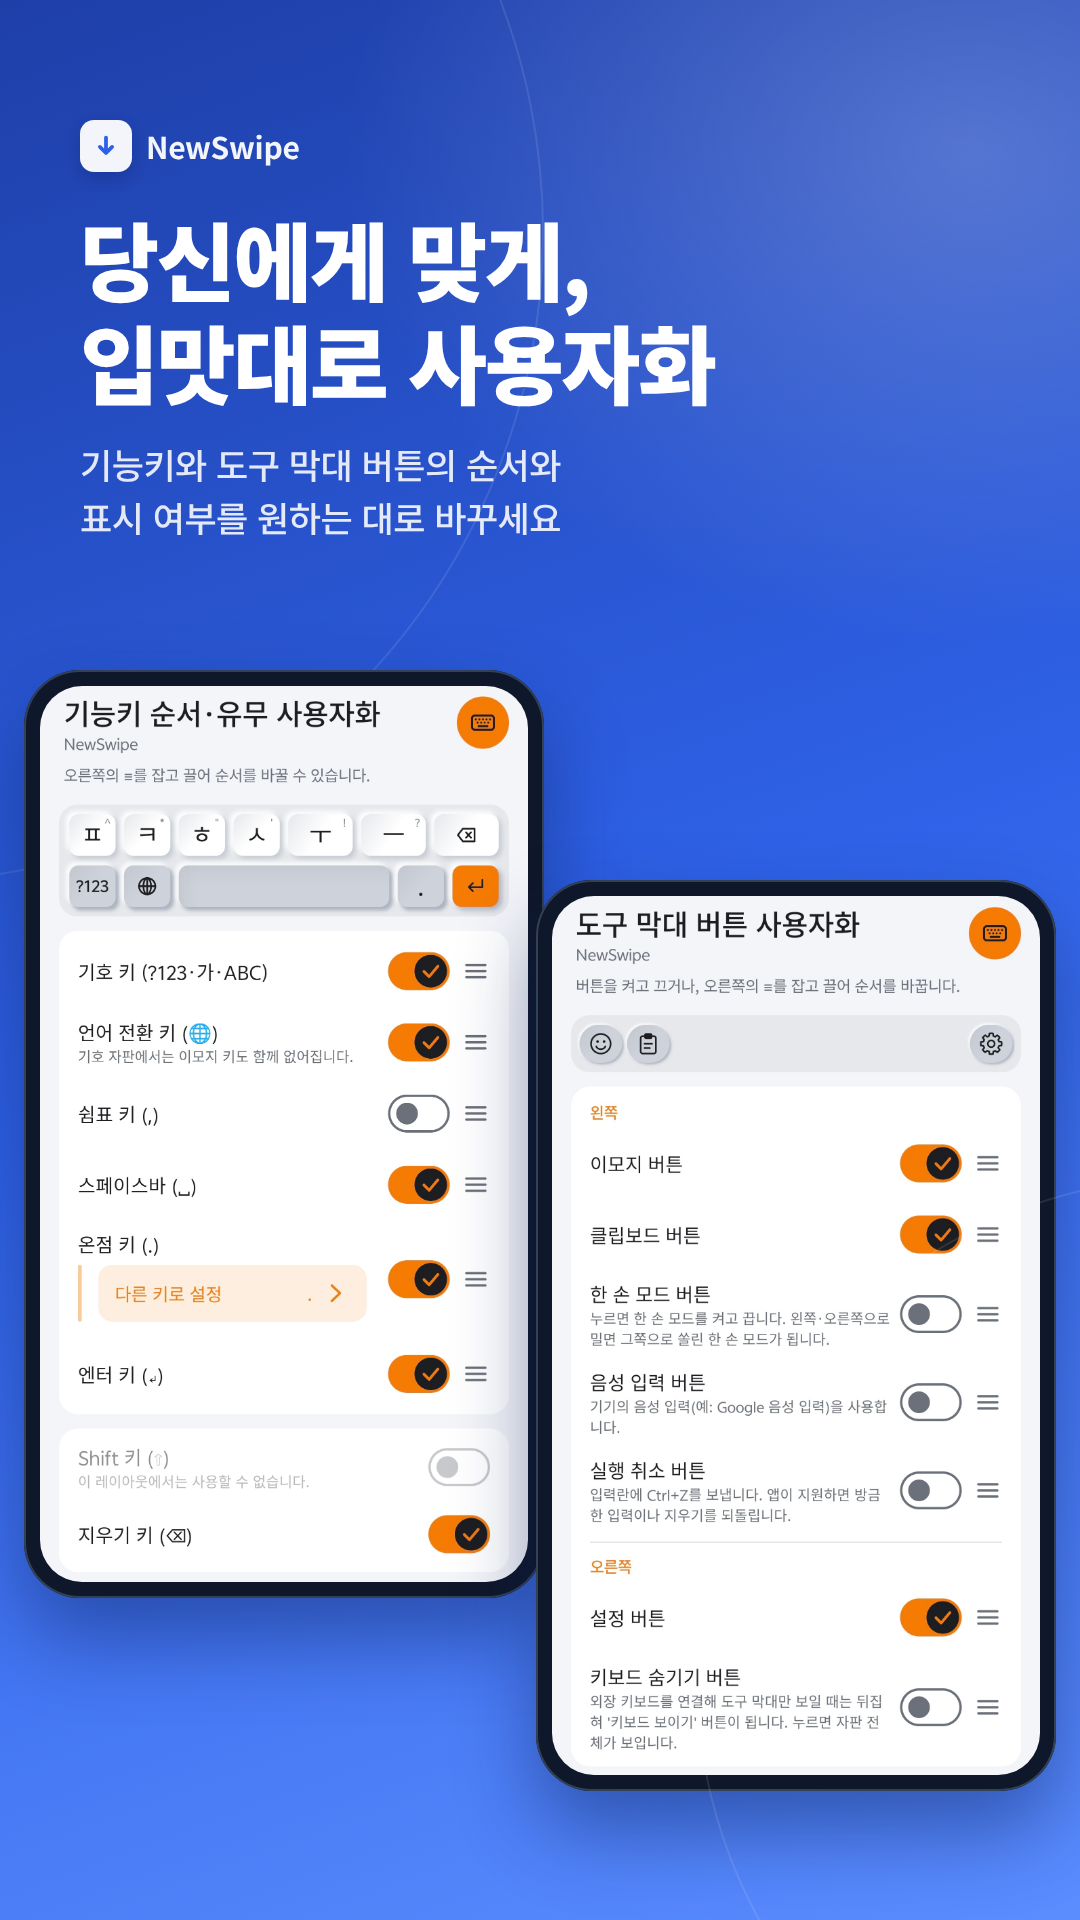
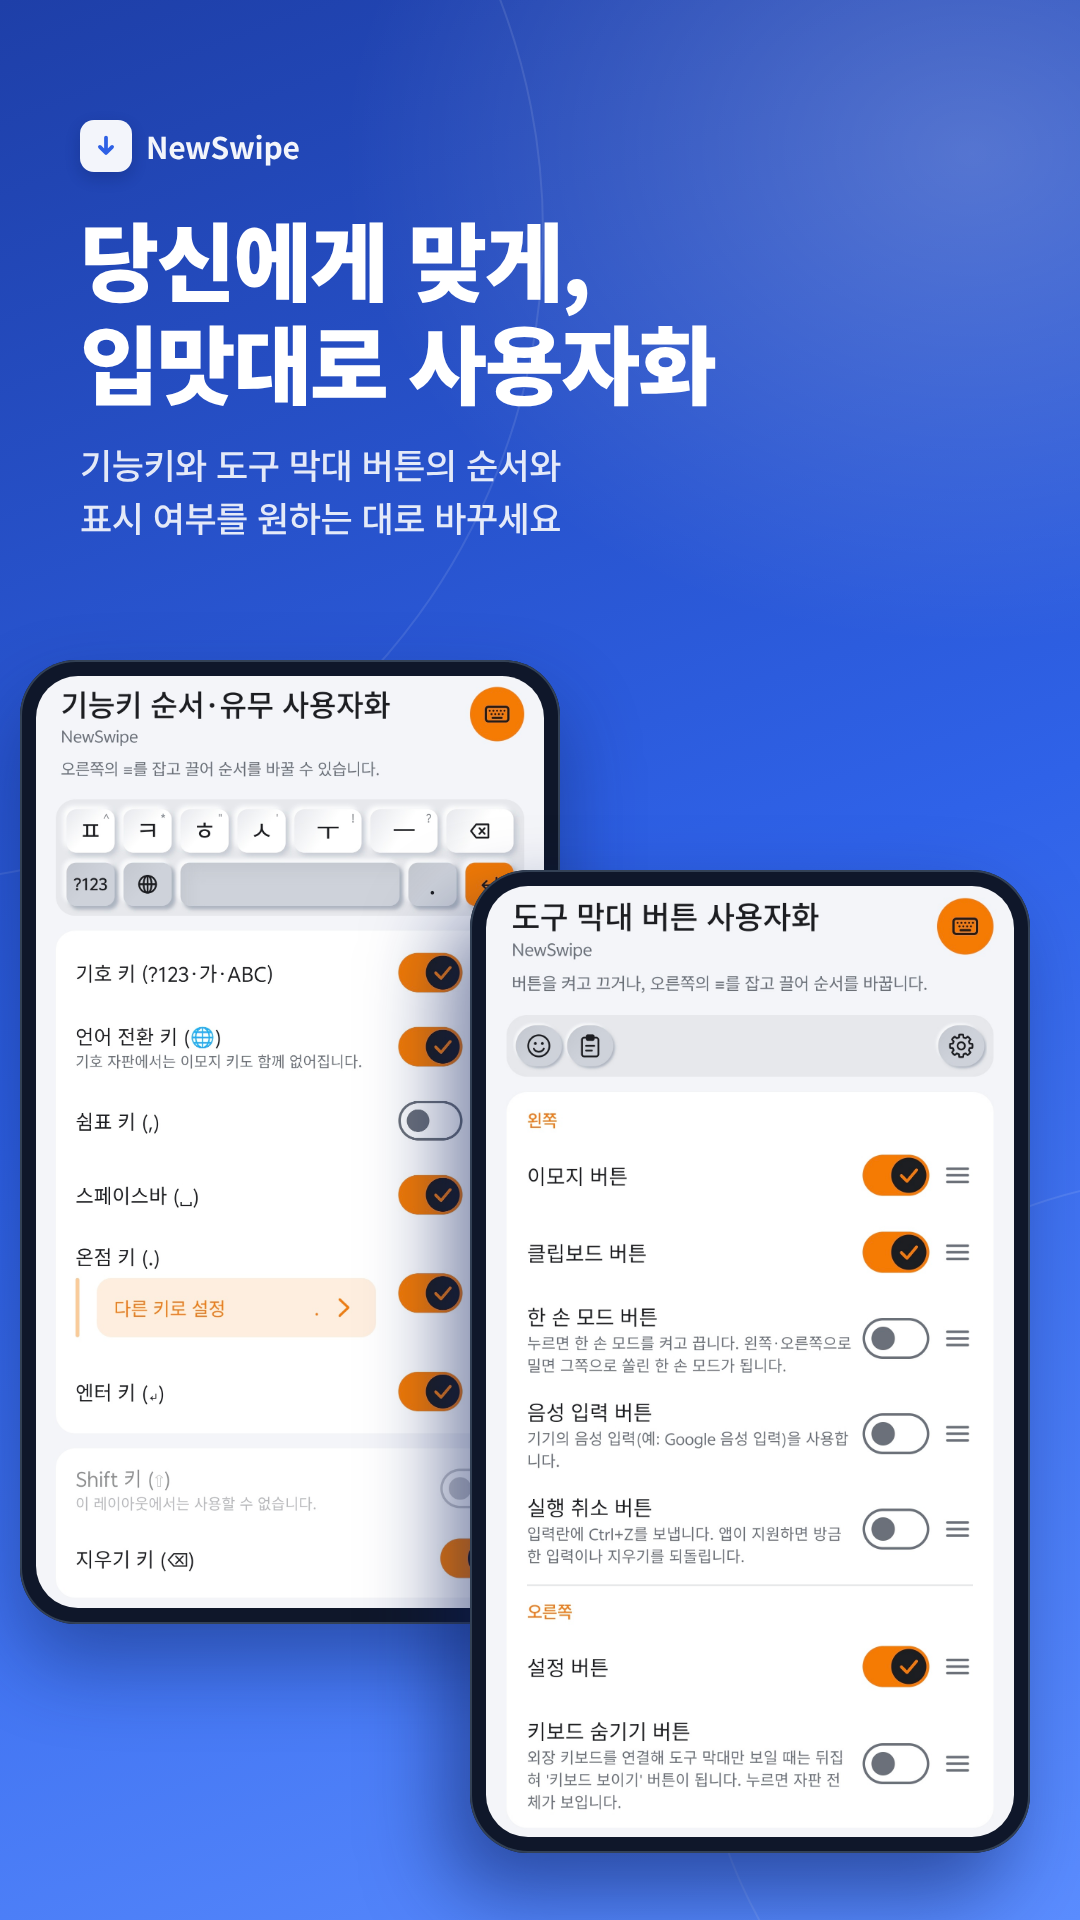
Overlap the two phones in the customization screenshot
Claude-Session: https://claude.ai/code/session_01AwdWyN99B5N53CxBWipQNM

Changed region(s): [[0.0, 0.3438, 1.0, 1.0], [0.1833, 0.75, 0.2139, 0.7812]]

diff --git a/docs/play-store/screenshots/src/shots.html b/docs/play-store/screenshots/src/shots.html
@@ -195,10 +195,10 @@
     <h1>당신에게 맞게,<br>입맛대로 사용자화</h1>
     <p>기능키와 도구 막대 버튼의 순서와<br>표시 여부를 원하는 대로 바꾸세요</p>
   </div>
-  <div class="device" style="left:24px; top:670px; width:520px; border-radius:56px; padding:16px;">
+  <div class="device" style="left:20px; top:660px; width:540px; border-radius:56px; padding:16px;">
     <div class="screen" style="border-radius:42px;"><img src="img/custom-keys.jpg" style="width:100%; display:block;"></div>
   </div>
-  <div class="device" style="left:536px; top:880px; width:520px; border-radius:56px; padding:16px;">
+  <div class="device" style="left:470px; top:870px; width:560px; border-radius:58px; padding:16px; z-index:2; box-shadow:-24px 40px 80px rgba(11,30,92,.55), inset 0 0 0 2px #334155;">
     <div class="screen" style="border-radius:42px;"><img src="img/custom-toolbar.jpg" style="width:100%; display:block;"></div>
   </div>
 </section>
